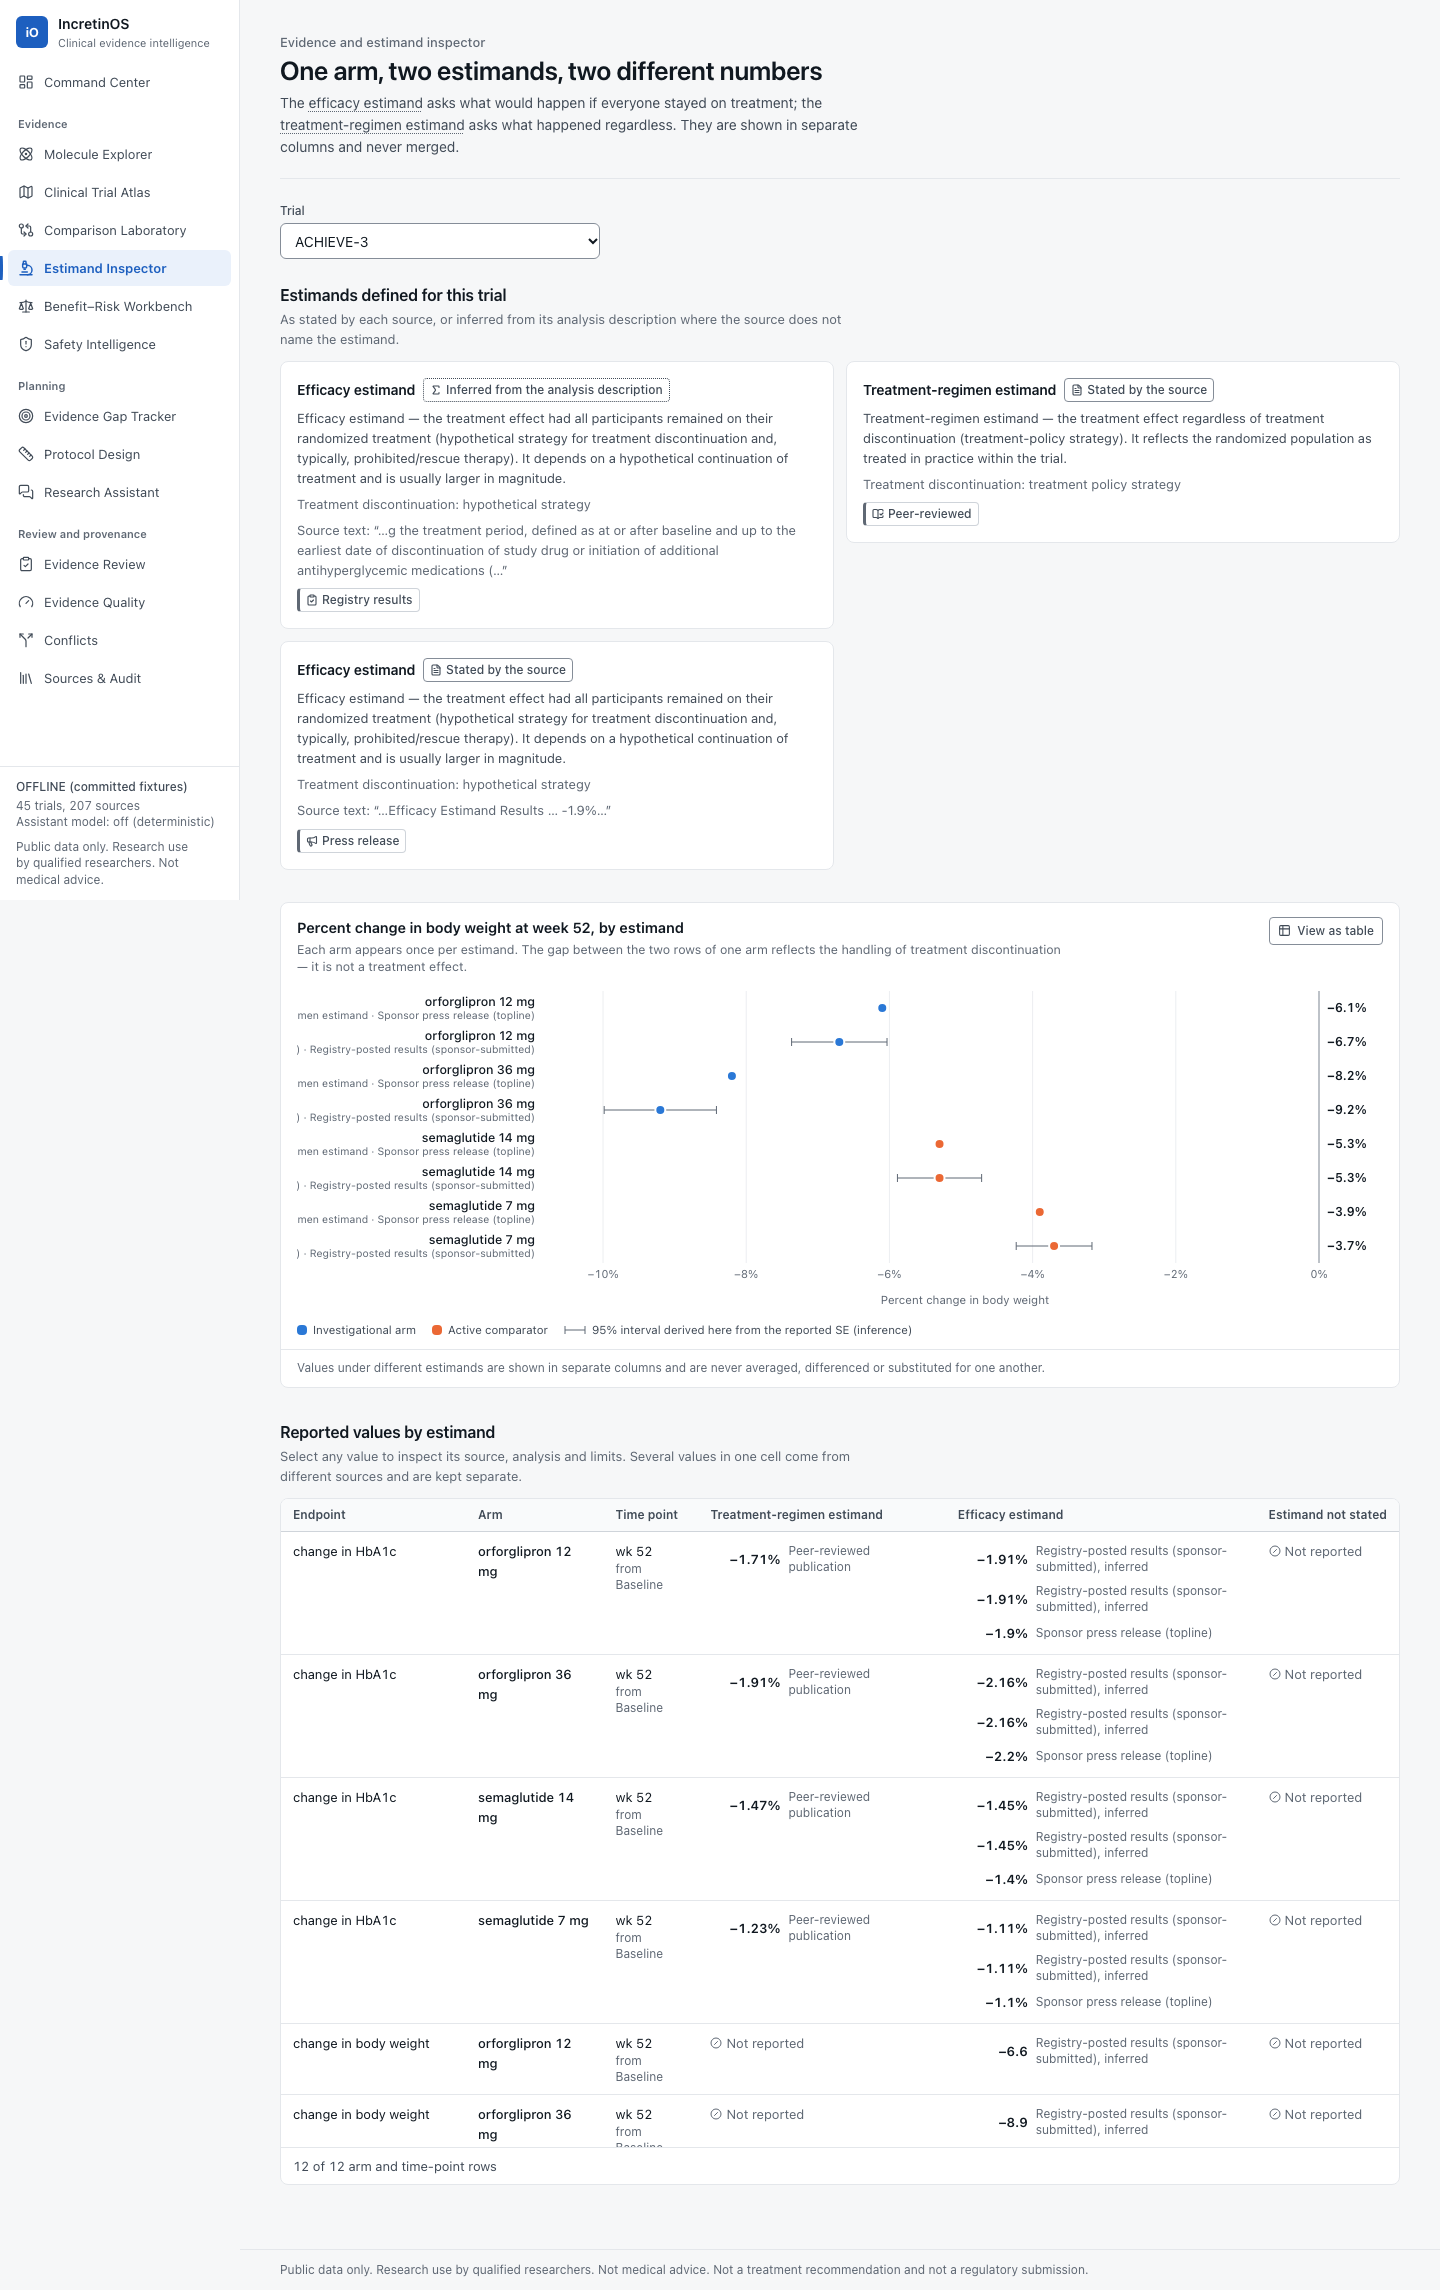
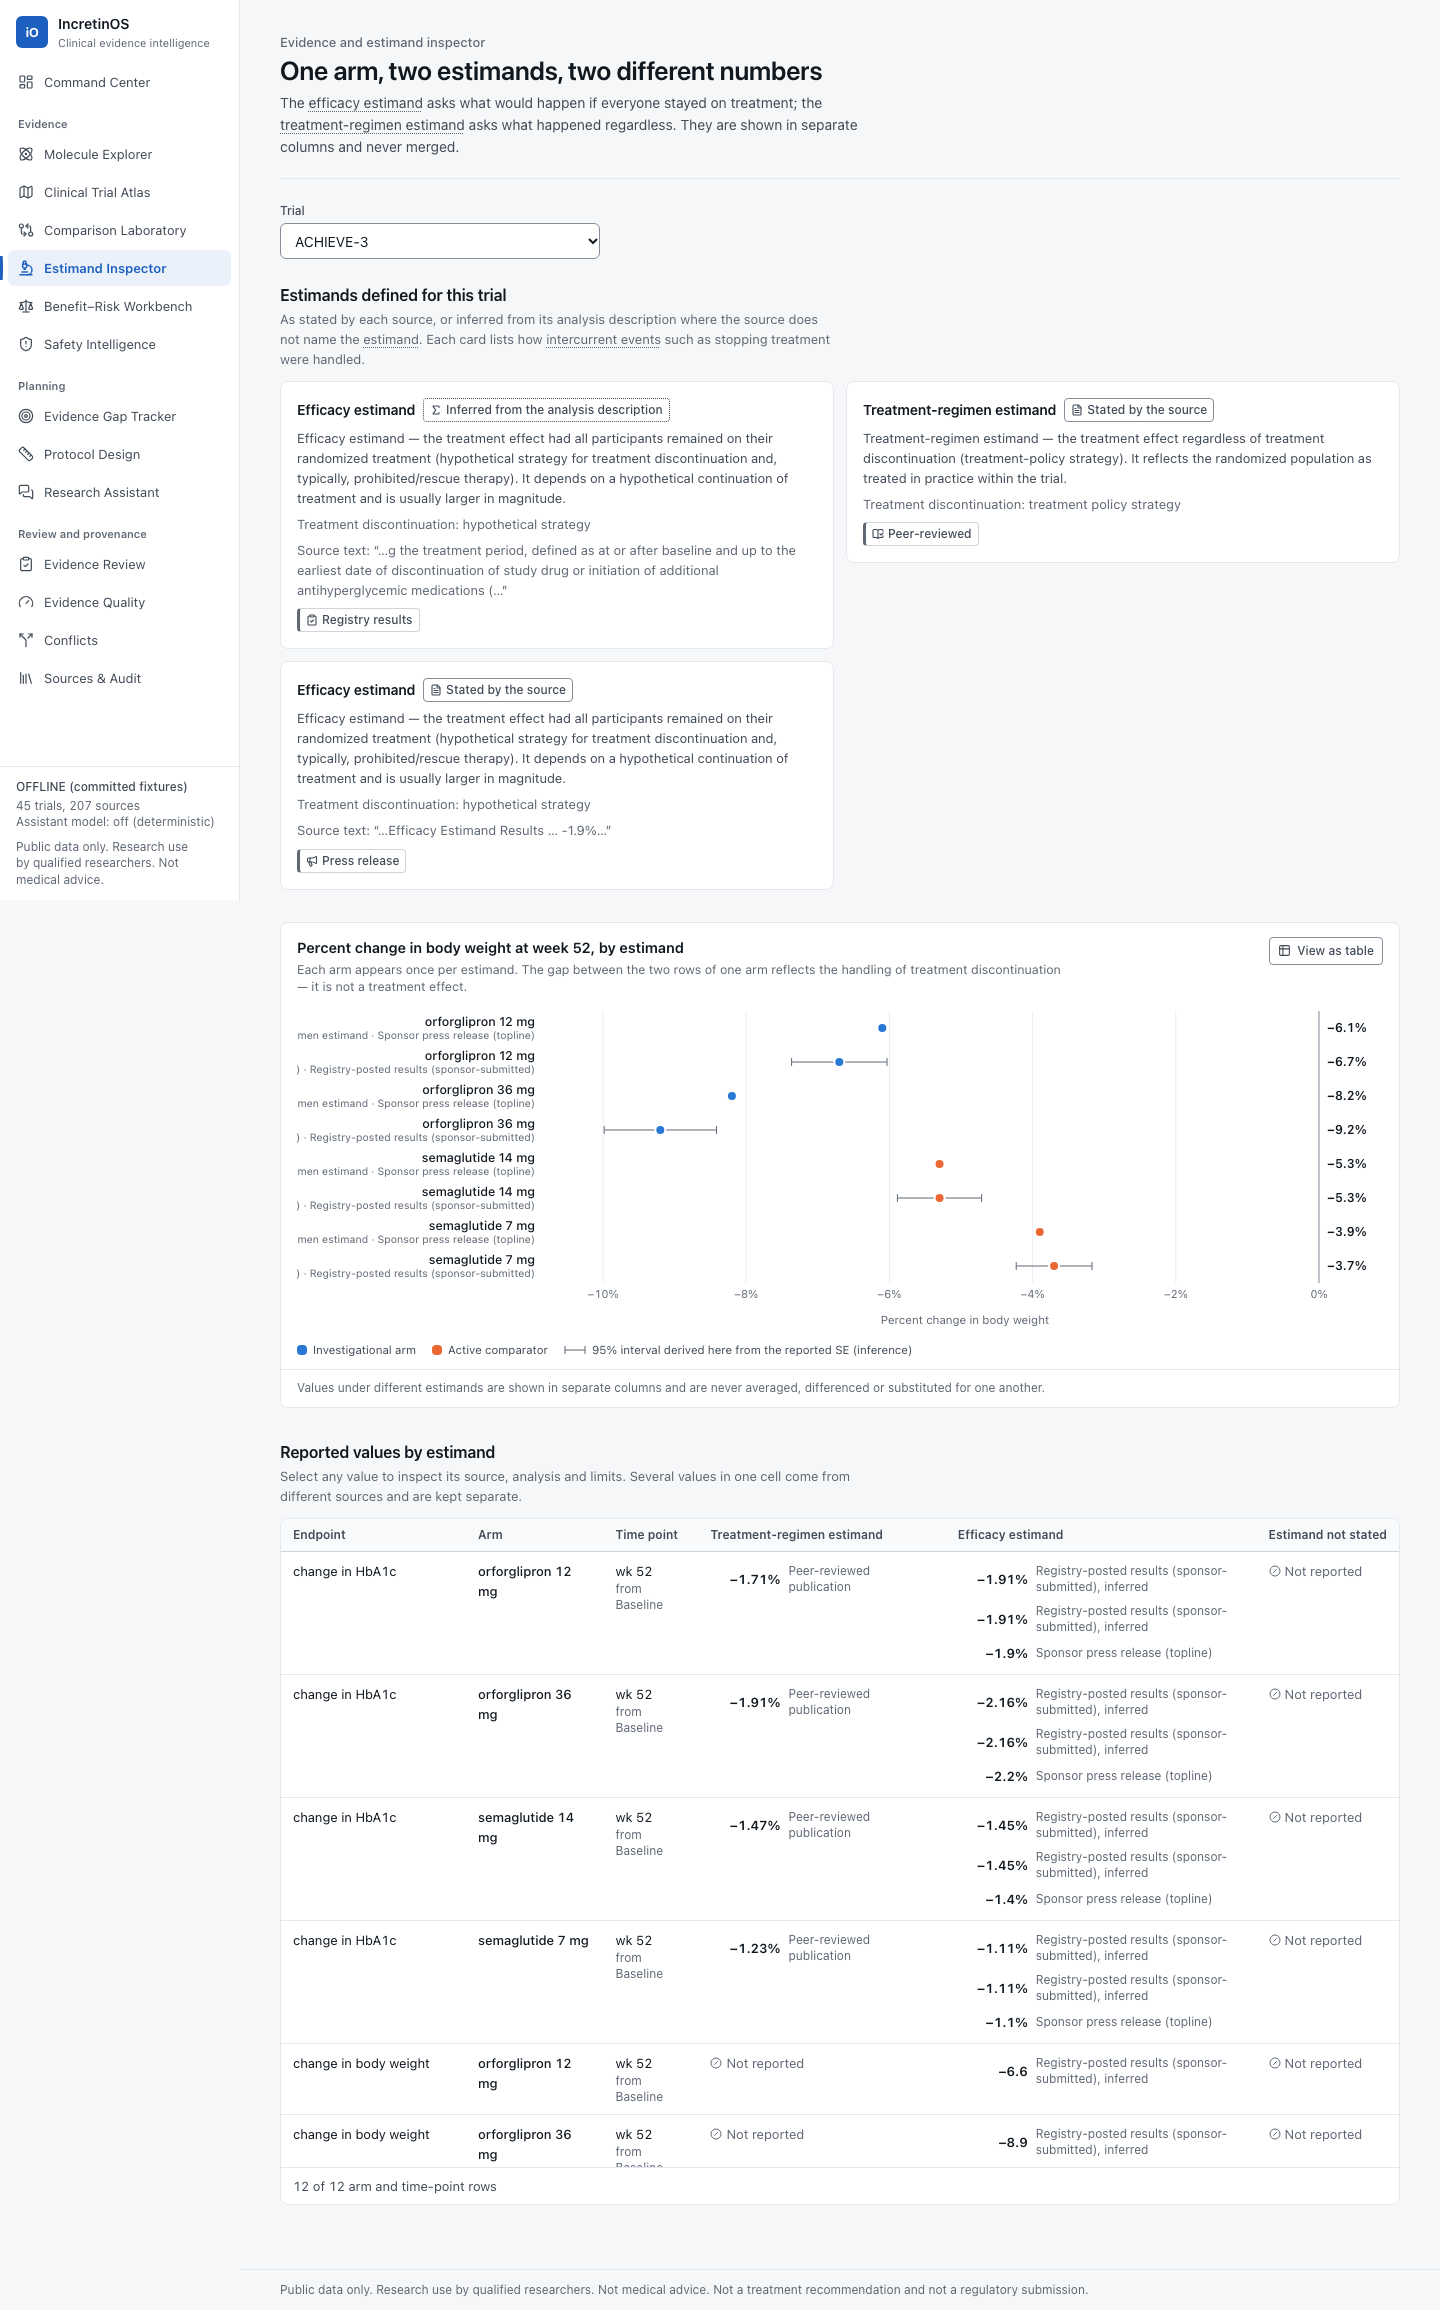
Test the paged API envelope and unknown statuses; explain two terms on the estimand page
Two more browser tests: lists work with {total, limit, offset, rows} (one page
per request, and a browser-filtered list reads every page before stating a
total), and a verification status the interface does not know is still counted
while a legacy name is folded into its current one. The estimand page explains
'estimand' and 'intercurrent event' in place. After screenshots refreshed.

diff --git a/frontend/e2e/foundation.spec.ts b/frontend/e2e/foundation.spec.ts
@@ -180,6 +180,62 @@ test("lists state how many rows exist and every row can be reached", async ({ pa
   await expect(next).toBeDisabled();
 });
 
+test("lists work with the paged API envelope {total, limit, offset, rows}", async ({ page, request }) => {
+  const meta = await (await request.get("/api/meta")).json();
+  const sources: number = meta.counts.sources;
+  const studies: number = meta.counts.studies;
+  // The list endpoints are moving to explicit paging. These handlers re-shape the real answers into the new
+  // envelope in the browser; nothing is stored and no value is invented.
+  const pageSizes: number[] = [];
+  await page.route(/\/api\/sources\?/, async (route) => {
+    const url = new URL(route.request().url());
+    const limit = Number(url.searchParams.get("limit") ?? 50);
+    const offset = Number(url.searchParams.get("offset") ?? 0);
+    url.searchParams.set("limit", "2000");
+    url.searchParams.delete("offset");
+    const full = await (await route.fetch({ url: url.toString() })).json();
+    const rows = full.rows.slice(offset, offset + limit);
+    pageSizes.push(rows.length);
+    await route.fulfill({ json: { ...full, total: full.rows.length, limit, offset, rows } });
+  });
+  await page.goto("/sources");
+  const pages = page.getByRole("navigation", { name: "Pages of sources" });
+  await expect(pages).toContainText(`1–25 of ${count(sources)} sources`);
+  await pages.getByRole("button", { name: "Next page of sources" }).click();
+  await expect(pages).toContainText(`26–${Math.min(50, sources)} of ${count(sources)} sources`);
+  await expect(page.getByRole("table", { name: "Evidence sources" }).locator("tbody tr")).toHaveCount(Math.min(25, sources - 25));
+  expect(Math.max(...pageSizes), "one page per request, not the whole list").toBeLessThanOrEqual(25);
+
+  // A list that is filtered in the browser reads every page of a paged endpoint before it shows a total.
+  await page.route(/\/api\/studies(\?.*)?$/, async (route) => {
+    const url = new URL(route.request().url());
+    const limit = Number(url.searchParams.get("limit") ?? 20);
+    const offset = Number(url.searchParams.get("offset") ?? 0);
+    const all = await (await route.fetch({ url: `${url.origin}${url.pathname}` })).json();
+    await route.fulfill({ json: { total: all.length, limit, offset, rows: all.slice(offset, offset + limit) } });
+  });
+  await page.goto("/trials");
+  await expect(page.getByRole("navigation", { name: "Pages of trials" })).toContainText(`of ${count(studies)} trials`);
+  await expect(page.getByRole("table", { name: "Trials ingested in depth" }).locator("tbody tr")).toHaveCount(Math.min(50, studies));
+});
+
+test("a status the interface does not know is still counted, and legacy names are folded in", async ({ page }) => {
+  // Synthetic counts, injected into the response in the browser only, to exercise the summary. Nothing is stored.
+  await page.route("**/api/overview", async (route) => {
+    const body = await (await route.fetch()).json();
+    body.meta.result_verification = { MACHINE_EXTRACTED: 10, PENDING_HUMAN_REVIEW: 3, CURATED_PENDING_REVIEW: 2, SOURCE_CHANGED_RECHECK_REQUIRED: 1, REJECTED: 1, SOMETHING_NEW: 4 };
+    await route.fulfill({ json: body });
+  });
+  await page.goto("/");
+  const table = page.getByRole("table", { name: "Stored results by verification status" });
+  await expect(table.getByRole("row", { name: /Pending review/ })).toContainText("5");
+  await expect(table.getByRole("row", { name: /Recheck required/ })).toContainText("1");
+  await expect(table.getByRole("row", { name: /Rejected/ })).toContainText("1");
+  await expect(table.getByRole("row", { name: /Something new/ })).toContainText("4");
+  await expect(table.getByRole("row", { name: /Human-verified/ })).toContainText("0.0%");
+  await expect(table.getByRole("row")).toHaveCount(8); // header, six known statuses, one unknown
+});
+
 test("sortable column headers report their state and sort the rows", async ({ page }) => {
   await page.goto("/trials");
   const table = page.getByRole("table", { name: "Trials ingested in depth" });

diff --git a/frontend/src/app/estimands/EstimandInspector.tsx b/frontend/src/app/estimands/EstimandInspector.tsx
@@ -167,7 +167,14 @@ function Results({ data, picked, onPick }: { data: EstimandData; picked: number 
 
   return (
     <>
-      <Section title="Estimands defined for this trial" hint="As stated by each source, or inferred from its analysis description where the source does not name the estimand.">
+      <Section
+        title="Estimands defined for this trial"
+        hint={
+          <>
+            As stated by each source, or inferred from its analysis description where the source does not name the <Term k="estimand">estimand</Term>. Each card lists how <Term k="intercurrent-event">intercurrent events</Term> such as stopping treatment were handled.
+          </>
+        }
+      >
         {data.estimands.length ? (
           <div className="grid grid-cols-1 items-start gap-3 md:grid-cols-2">
             {data.estimands.map((e, i) => (
